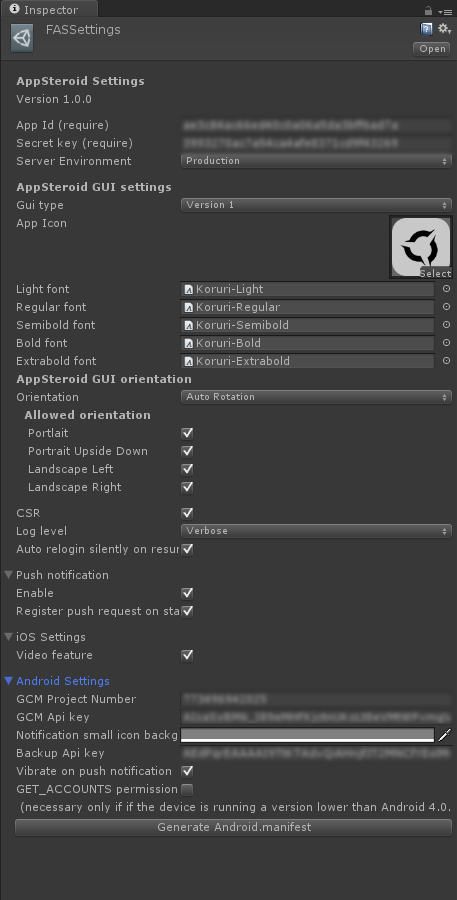
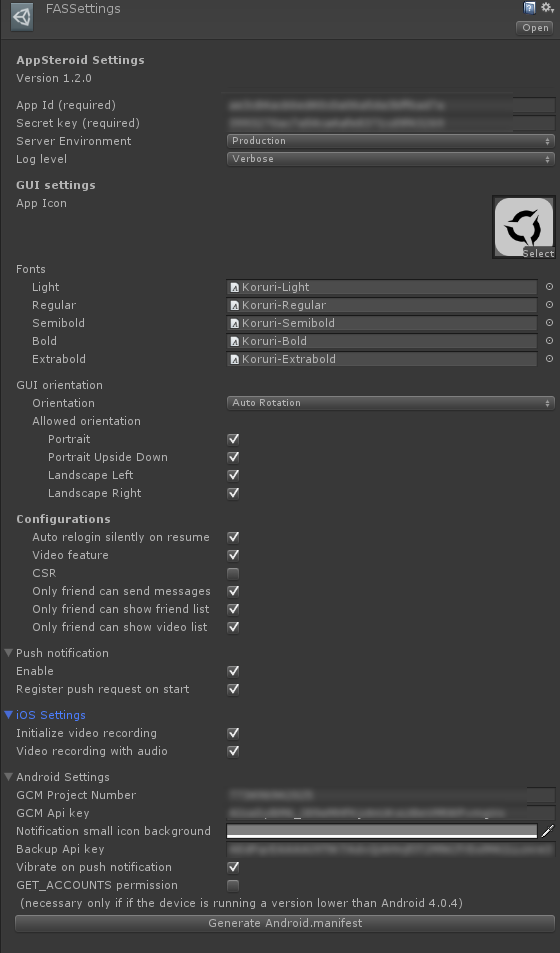
Update documents

Changed region(s): [[0.0, 0.0933, 1.0, 0.9956], [0.0, 0.0, 0.3676, 0.2489], [0.8884, 0.0, 1.0, 0.0622]]

diff --git a/ja/GettingStarted.md b/ja/GettingStarted.md
@@ -16,14 +16,16 @@ AppIdとSecretKeyはWebコンソールより取得できます。詳しくは[We
 
 ![SetParametersInInspector](./Images/SetParametersInInspector.png)
 
+#### AppSteroid settings
 |Data|Type|Description|
 |-------|------|-----|
 |App Icon|Texture2D|アプリのアイコン画像（AppSteroid GUI で利用）|
 |App Id|string|（必須）Fresvii AppSteroid のアプリID|
 |Secret key|string|（必須）Fresvii AppSteroid のアプリシークレットキー|
 |Server Environment| Production or Development | サーバ環境を選択します。Prodction と Development の２つのデータベースが利用できます。 |
+|Log level|FASSettings.LogLevel|ログ出力レベル。{ Verbose, Warning, Error, None } のいずれかを選択。None の場合も必須のパラメータ入力漏れなどではエラーログ出力します。|
 
-#### AppSteroid GUI settings
+#### GUI settings
 |Data|Type|Description|
 |-------|------|-----|
 |GUI type| enum |Version1 / Legacy から選択します。ただし、Legacy は今後のアップデートはサポートされません。|
@@ -33,9 +35,16 @@ AppIdとSecretKeyはWebコンソールより取得できます。詳しくは[We
 |Bold font|Font|Bold font|
 |Extrabold font|Font|Extrabold font|
 |App Steroid GUI orientation| Orientation |AppSteroid の GUI のデバイスローテーションを設定します。|
-|CSR|bool|CSR（Live Help、カスタマーサポート）機能を利用するか、否か|
-|Log level|FASSettings.LogLevel|ログ出力レベル。{ Verbose, Warning, Error, None } のいずれかを選択。None の場合も必須のパラメータ入力漏れなどではエラーログ出力します。|
+
+#### Configurations
+|Data|Type|Description|
+|-------|------|-----|
 |Auto relogin silently on resume|bool|アプリ再開時に自動で再ログインを行うか、否か。|
+|Video feature|bool|ビデオの録画、投稿機能を利用するか、否か。ビデオ録画を利用する場合は、Graphic API = Open GL ES 3.0 を選択してください。|
+|CSR|bool|CSR（Live Help、カスタマーサポート）機能を利用するか、否か|
+|Only friend can send messages|bool|フレンドのみメッセージ送信可能か否かの設定。false の場合は誰からもメッセージを送信可能|
+|Only friend can show friend list|bool|フレンドのみユーザーのフレンドリストを表示可能か否かの設定。false の場合は誰でもフレンドリストを表示可能|
+|Only friend can show video list|bool|フレンドのみユーザーのビデオリストを表示可能か否かの設定。false の場合は誰でもビデオリストを表示可能|
 
 #### Push notification
 |Data|Type|Description|
@@ -46,7 +55,6 @@ AppIdとSecretKeyはWebコンソールより取得できます。詳しくは[We
 #### iOS Settings
 |Data|Type|Description|
 |-------|------|-----|
-|Video feature|bool|ビデオの録画、投稿機能を利用するか、否か。ビデオ録画を利用する場合は、Graphic API = Open GL ES 3.0 を選択してください。|
 |Initialize video recording|bool|アプリ起動時に自動で初期化処理を行うか、否か。|
 |Video recording with audio|bool|アプリ起動時に自動で初期化処理を行う場合、オーディオの録音を行うか、否か。|
 

diff --git a/ja/Specs/Spec-FASGui.md b/ja/Specs/Spec-FASGui.md
@@ -1,6 +1,6 @@
 # FASGui Specifications
 
-last update at 2016/01/04
+last update at 2016/04/15
 
 ----------
 
@@ -169,9 +169,9 @@ GUIを表示するシーンをロードします。 引数として、isModal = 
 
 #### Example
 
-    string[] leaderboardOrderIds = 
-    {"50d8d7095ca940c6bce7dfdf1df80d44", 
-      "0c09e56de3a148d4806e263f01fa572d", 
+    string[] leaderboardOrderIds =
+    {"50d8d7095ca940c6bce7dfdf1df80d44",
+      "0c09e56de3a148d4806e263f01fa572d",
       "5c969d304dc543acac66fb4f552e13d9"};
 
     FASGui.SetLeaderboardsOrder(leaderboardOrderIds);
